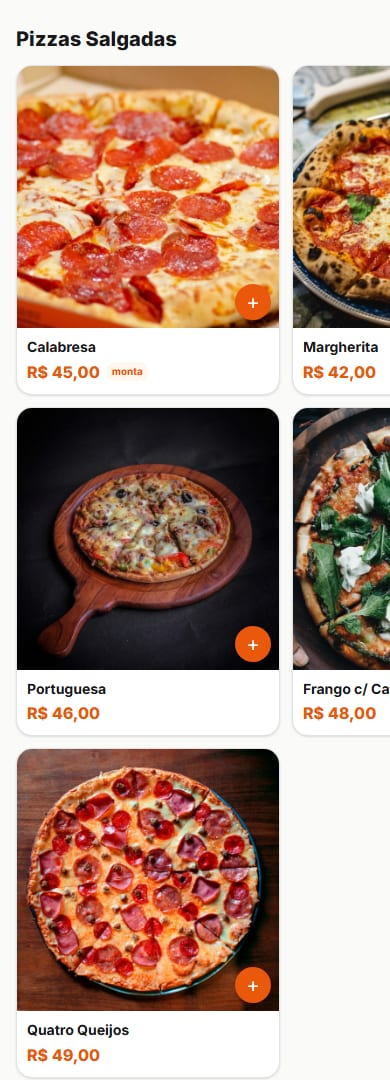
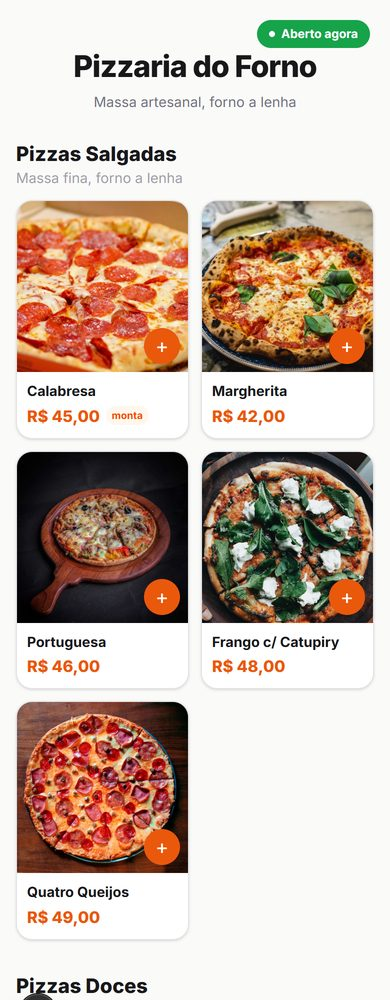
site: separa Bar de Hamburgueria, LPs honestas por feature, cardápios reais dos 5 nichos e correções da auditoria
- Bar & Hamburgueria viram nichos separados (regras opostas: bar=couvert/dose sem fidelidade; hamburgueria=combos/delivery/fidelidade sem couvert)
- Segmentadas agora são FEATURE-AWARE (segments.ts): painéis "Como funciona" e "Tudo incluso" só mostram o que o nicho realmente tem — bar deixa de prometer delivery/fidelidade (λ.prova-na-fonte)
- 5 cardápios reais no modelo Medellín (header + subtítulo de categoria + fotos): hamburgueria (demo Burger House novo), pizzaria e sushi nivelados; sushi com horário/fotos corrigidos
- Modal de captura com bullets neutros-honestos (sem "delivery" que destoava no bar) + valores do BILLING
- Copy: tira jargão "grátis-até-N", "iFood 30%" → "até ~30%", "sem fidelidade" → "sem contrato de permanência", fidelidade citada em pizzaria/sushi (recurso real), tom "tu" nas seoDescriptions
- FAQ home: impressora (instalador 1 clique), suporte (WhatsApp direto), maquininha (só registra o método) — lacunas do estudo
- Cards de segmento centralizados (5 cards)

diff --git a/src/app/segmentos/[nicho]/page.tsx b/src/app/segmentos/[nicho]/page.tsx
@@ -1,9 +1,10 @@
 import type { Metadata } from "next";
 import { notFound } from "next/navigation";
 import Link from "next/link";
-import { IconArrowRight, IconMoto, IconTable, IconWallet } from "@/components/Icons";
+import { IconArrowRight, IconMoto, IconTable, IconWallet, IconReceipt, IconBag } from "@/components/Icons";
 import { NICHOS, getNicho, type Nicho } from "@/config/marketing";
-import { ACCENT, CREAM, INK, MUT, PANEL_COLORS, SiteGlows, SiteNav, PhoneFrame, ColorPanel, Pill, PrecoSection, FaqSection, CtaFinal, SiteFooter, JsonLd } from "@/components/site/parts";
+import { SEGMENTOS, type Features } from "@/config/segments";
+import { ACCENT, CREAM, INK, MUT, PANEL_COLORS, SiteGlows, SiteNav, PhoneFrame, ColorPanel, ScreenMock, Pill, PrecoSection, FaqSection, CtaFinal, SiteFooter, JsonLd } from "@/components/site/parts";
 import { Reveal } from "@/components/site/Reveal";
 import CadastroModal from "@/components/site/CadastroModal";
 
@@ -23,16 +24,34 @@ export async function generateMetadata({ params }: { params: Promise<{ nicho: st
   };
 }
 
-const INCLUSO = [
-  "Cardápio digital + delivery próprio",
-  "Comanda, mesa e app do garçom",
-  "Cozinha (KDS) e impressão térmica",
-  "Balcão / PDV e caixa unificado",
-  "Estoque com baixa automática",
-  "Fidelidade por pontos",
-];
+// "Tudo incluso" HONESTO por nicho — só lista o que as features do segmento realmente têm (segments.ts).
+function buildIncluso(f: Features): string[] {
+  const list = ["Cardápio digital no seu link"];
+  if (f.hasDelivery) list.push("Delivery próprio sem comissão");
+  if (f.hasTables) list.push("Comanda, mesa e app do garçom");
+  if (f.coverEnabled || f.stockDose) list.push("Couvert e dose/garrafa no controle");
+  if (f.sellsByWeight) list.push("Venda por peso (R$/kg)");
+  list.push("Cozinha (KDS) e impressão térmica 80mm");
+  list.push("Balcão / PDV e caixa unificado");
+  list.push("Estoque com baixa automática");
+  if (f.loyaltyEnabled) list.push("Fidelidade por pontos");
+  return list;
+}
+
+// Painéis "Como funciona" HONESTOS por nicho — cada painel só aparece se a feature existe.
+type PanelDef = { eyebrow: string; EyeIcon: React.ComponentType<{ width?: number; height?: number }>; title: string; accent: string; desc: string; pills: string[]; img?: string; imgAlt?: string; mock?: React.ReactNode };
+function buildPanels(f: Features): PanelDef[] {
+  const p: PanelDef[] = [];
+  if (f.hasDelivery) p.push({ eyebrow: "Delivery próprio", EyeIcon: IconMoto, title: "Todo pedido cai no seu balcão.", accent: "Zero comissão.", desc: "Entrega pelo seu link, com sua taxa por bairro. O cliente escolhe Pix, cartão ou dinheiro com troco e acompanha por código de rastreio. Entrou pedido, o sistema apita e imprime sozinho.", pills: ["0% de comissão", "Taxa por bairro", "Rastreio por código", "Apita e imprime"], img: "/site/tela-pedidos.jpg", imgAlt: "Painel de pedidos de delivery no ComandaPRO" });
+  if (f.hasTables) p.push({ eyebrow: "Comanda & mesa", EyeIcon: IconTable, title: "Cada mesa com a conta certa,", accent: "na hora.", desc: f.hasStations ? "Comanda por mesa, o garçom lança pelo celular e cada item vai roteado pra cozinha ou pro bar. A conta divide sem erro na hora de fechar." : "Comanda por mesa, o garçom lança pelo celular e a conta divide sem erro na hora de fechar.", pills: ["Comanda por mesa", "App do garçom", "Divisão de conta"], img: "/site/tela-mesas.jpg", imgAlt: "Mapa de mesas com comandas abertas no ComandaPRO" });
+  if (f.coverEnabled || f.stockDose) p.push({ eyebrow: "Couvert & dose", EyeIcon: IconReceipt, title: "Couvert e dose entram", accent: "sem furo no controle.", desc: "O couvert entra por pessoa quando tem atração e a dose ou a garrafa baixa certo do estoque — sem confundir dose com garrafa. A taxa de serviço fecha na conta.", pills: ["Couvert por pessoa", "Dose e garrafa", "Taxa de serviço 10%"], mock: <ScreenMock title="Comanda · Mesa 06" rows={[{ label: "Couvert · 2 pessoas", value: "R$ 20,00" }, { label: "Chopp 300ml · 3", value: "R$ 36,00" }, { label: "Dose de gin", value: "R$ 18,00", on: true }]} footer={{ label: "Taxa de serviço 10%", value: "R$ 7,40" }} /> });
+  if (f.sellsByWeight) p.push({ eyebrow: "Venda por peso", EyeIcon: IconBag, title: "Vende por peso", accent: "sem erro de conta.", desc: "Preço por quilo: o sistema lê a balança (protocolo Toledo, via QZ Tray) ou você digita as gramas, e o total sai certo. Ideal pra açaí no copo, marmita e self-service.", pills: ["Preço por kg", "Lê da balança", "ou digita as gramas"], mock: <ScreenMock title="Balcão · por peso" rows={[{ label: "Açaí · R$ 49,90/kg" }, { label: "Peso", value: "320 g" }, { label: "Total", value: "R$ 15,97", on: true }]} /> });
+  p.push({ eyebrow: "Caixa & gestão", EyeIcon: IconWallet, title: "Você fecha o dia com número na mão,", accent: "não no achismo.", desc: `Toda venda — ${f.hasDelivery ? "balcão, mesa e delivery" : "balcão e mesa"} — cai no mesmo caixa. Você vê a receita por forma de pagamento, o que saiu do estoque e o lucro do período.`, pills: ["Caixa unificado", "Receita por forma de pagamento", "Baixa de estoque + CMV"], img: "/site/tela-financeiro.jpg", imgAlt: "Painel financeiro do ComandaPRO" });
+  return p;
+}
 
 function SegmentLP({ nicho: n }: { nicho: Nicho }) {
+  const feat = SEGMENTOS[n.businessType].features;
   return (
     <main className="relative min-h-screen overflow-hidden" style={{ background: CREAM, color: INK }}>
       <SiteGlows />
@@ -87,36 +106,18 @@ function SegmentLP({ nicho: n }: { nicho: Nicho }) {
         <p className="mt-8 text-center text-lg font-semibold text-[#5A4F45]">O ComandaPRO resolve as três — <span style={{ color: ACCENT }}>num sistema só.</span></p>
       </section>
 
-      {/* FUNCIONALIDADES — painéis coloridos (estilo Expresso), com print real */}
+      {/* FUNCIONALIDADES — painéis coloridos HONESTOS por nicho (só o que a feature existe) */}
       <section id="funcionalidades" className="relative z-10 mx-auto max-w-6xl space-y-8 px-5 py-16">
         <div className="mx-auto max-w-2xl text-center">
           <span className="text-sm font-bold uppercase tracking-wider" style={{ color: ACCENT }}>Como funciona</span>
           <h2 className="mt-3 text-3xl font-extrabold tracking-tight sm:text-4xl" style={{ color: INK }}>Do pedido ao caixa, sem trocar de sistema</h2>
         </div>
-        <ColorPanel
-          color={PANEL_COLORS[0]} eyebrow="01 · Delivery próprio" EyeIcon={IconMoto}
-          title="Todo pedido cai no seu balcão." accent="Zero comissão."
-          desc="Entrega pelo seu link, com sua taxa por bairro. O cliente escolhe Pix, cartão ou dinheiro com troco e acompanha por código de rastreio. Entrou pedido, o sistema apita e imprime sozinho."
-          pills={["0% de comissão", "Taxa por bairro", "Rastreio por código", "Apita e imprime"]}
-          img="/site/tela-pedidos.jpg" imgAlt="Painel de pedidos de delivery no ComandaPRO"
-        />
-        <ColorPanel
-          color={PANEL_COLORS[1]} eyebrow="02 · Comanda & mesa" EyeIcon={IconTable} reverse
-          title="Cada mesa com a conta certa," accent="na hora."
-          desc="Comanda por mesa, o garçom lança pelo celular e cada item vai roteado pra cozinha ou pro bar. A conta divide sem erro na hora de fechar."
-          pills={["Comanda por mesa", "App do garçom", "Divisão de conta"]}
-          img="/site/tela-mesas.jpg" imgAlt="Mapa de mesas com comandas abertas no ComandaPRO"
-        />
-        <ColorPanel
-          color={PANEL_COLORS[2]} eyebrow="03 · Caixa & gestão" EyeIcon={IconWallet}
-          title="Você fecha o dia com número na mão," accent="não no achismo."
-          desc="Toda venda — mesa, balcão e delivery — cai no mesmo caixa. Você vê a receita por forma de pagamento, o que saiu do estoque e o lucro do período."
-          pills={["Caixa unificado", "Receita por forma de pagamento", "Baixa de estoque + CMV"]}
-          img="/site/tela-financeiro.jpg" imgAlt="Painel financeiro do ComandaPRO"
-        />
+        {buildPanels(feat).map((p, i) => (
+          <ColorPanel key={p.eyebrow} {...p} eyebrow={`${String(i + 1).padStart(2, "0")} · ${p.eyebrow}`} color={PANEL_COLORS[i % PANEL_COLORS.length]} reverse={i % 2 === 1} />
+        ))}
       </section>
 
-      <Reveal><PrecoSection incluso={INCLUSO} /></Reveal>
+      <Reveal><PrecoSection incluso={buildIncluso(feat)} /></Reveal>
       <Reveal><FaqSection faqs={n.faqs} /></Reveal>
       <Reveal><CtaFinal heading={`Bota sua ${n.nome.toLowerCase()} num sistema só.`} /></Reveal>
       <SiteFooter />

diff --git a/src/config/marketing.ts b/src/config/marketing.ts
@@ -35,16 +35,16 @@ export const NICHOS: Nicho[] = [
     nome: "Açaiteria",
     seoTitle: "Sistema para Açaiteria — Cardápio Digital, Balança e Delivery | ComandaPRO",
     seoDescription:
-      "Sistema para açaiteria: monta o copo no cardápio digital, vende por peso na balança, delivery próprio sem comissão, comanda e caixa num sistema só. Teste o ComandaPRO.",
+      "Sistema para açaiteria: monta o copo no cardápio digital, vende por peso na balança, delivery próprio sem comissão, comanda e caixa num sistema só. Testa o ComandaPRO.",
     heroH1: "Sistema pra açaiteria que",
     heroAccent: "monta o copo sozinho.",
-    heroSub: "O cliente monta o açaí no seu link — tamanho, adicionais grátis-até-N, sabor — e o preço nunca sai errado. Venda por peso, delivery próprio sem comissão e fidelidade por pontos, num sistema só.",
+    heroSub: "O cliente monta o açaí no seu link — tamanho, adicionais (os primeiros grátis), sabor — e o preço nunca sai errado. Venda por peso, delivery próprio sem comissão e fidelidade por pontos, num sistema só.",
     cardapioImg: "/site/cardapio-acai.jpg",
     cardapioCaption: "Cardápio real · Cantinho do Açaí",
-    destaques: ["Monta o copo no cardápio", "Venda por peso na balança", "Adicional grátis-até-N", "Delivery 0% comissão", "Fidelidade por pontos"],
+    destaques: ["Monta o copo no cardápio", "Venda por peso na balança", "Adicionais grátis até o limite", "Delivery 0% comissão", "Fidelidade por pontos"],
     dores: ["Fila no balcão anotando adicional no papel", "Cliente do iFood que nunca volta — e a comissão comendo a margem", "Não sabe qual sabor e adicional mais saem"],
     faqs: [
-      { q: "O cliente monta o açaí sozinho pelo link?", a: "Sim. Ele escolhe o tamanho, adiciona frutas, cremes e crocantes com a regra 'os N primeiros grátis' já aplicada, e vê o preço subir ao vivo — sem app pra baixar." },
+      { q: "O cliente monta o açaí sozinho pelo link?", a: "Sim. Ele escolhe o tamanho, adiciona frutas, cremes e crocantes com a regra 'os primeiros grátis' (você define quantos) já aplicada, e vê o preço subir ao vivo — sem app pra baixar." },
       { q: "Dá pra vender por peso (R$/kg)?", a: "Sim. O ComandaPRO integra com a balança (protocolo Toledo) ou você digita as gramas, e o preço sai pelo peso automaticamente." },
       { q: "Como funciona a fidelidade da açaiteria?", a: "O cliente ganha pontos por compra e troca por um item seu (ex: copo 350ml grátis). Ele consulta o saldo pelo telefone e o cupom imprime quanto falta pro próximo prêmio. Pontos nunca viram dinheiro." },
       { q: "Preciso pagar comissão no delivery?", a: "Não. O pedido vem pelo seu link, com sua taxa por bairro, e o valor é todo seu — sem marketplace levando percentual." },
@@ -52,25 +52,50 @@ export const NICHOS: Nicho[] = [
     ],
   },
   {
-    // Engloba hamburgueria (comida casual + mesa + petisco + delivery) pra não pulverizar em LPs demais.
+    // BAR & PETISCARIA — venue de noite: comanda de mesa, couvert, dose/garrafa. NÃO tem fidelidade
+    // nem lidera com delivery (o forte é o salão). Regras vêm de segments.ts (coverEnabled, stockDose).
     slug: "bar",
     businessType: "bar",
-    nome: "Bar, Petiscaria & Hamburgueria",
-    seoTitle: "Sistema para Bar, Petiscaria e Hamburgueria — Comanda, Mesa e Delivery | ComandaPRO",
+    nome: "Bar & Petiscaria",
+    seoTitle: "Sistema para Bar e Petiscaria — Comanda por Mesa, Couvert e Dose | ComandaPRO",
     seoDescription:
-      "Sistema para bar, petiscaria e hamburgueria: comanda por mesa, controle de garçom, couvert e dose, delivery próprio sem comissão, impressão na cozinha e caixa. Conheça o ComandaPRO.",
+      "Sistema para bar e petiscaria: comanda por mesa, controle de garçom, couvert por pessoa, dose e garrafa no estoque, divisão de conta e caixa. Testa o ComandaPRO.",
     heroH1: "Sistema pra bar que",
     heroAccent: "fecha a comanda sem erro.",
-    heroSub: "Comanda por mesa, o garçom lança pelo celular, couvert e dose entram automático e a conta divide na hora. Petisco e hambúrguer no delivery próprio, sem comissão — do primeiro chopp ao fechamento do caixa.",
+    heroSub: "Comanda por mesa, o garçom lança pelo celular, couvert e dose entram automático e a conta divide na hora — do primeiro chopp ao fechamento do caixa. Cada pedido vai roteado pra cozinha ou pro bar.",
     cardapioImg: "/site/cardapio-bar.jpg",
     cardapioCaption: "Cardápio real · Medellín Music Bar",
-    destaques: ["Comanda por mesa", "App do garçom", "Couvert e dose automáticos", "Divisão de conta", "Delivery 0% comissão"],
+    destaques: ["Comanda por mesa", "App do garçom", "Couvert por pessoa", "Dose e garrafa no estoque", "Divisão de conta"],
     dores: ["Comanda de papel que some e some venda junto", "Garçom correndo pra somar a conta e o cliente esperando", "Dose e couvert que ninguém lança direito"],
     faqs: [
       { q: "Como funciona a comanda por mesa?", a: "Cada mesa tem uma comanda; o garçom lança os itens pelo celular e cada pedido já sai roteado pra cozinha ou pro bar. No fim, a conta fecha com a taxa de 10% (o cliente pode recusar) e divide entre as pessoas." },
       { q: "O sistema controla couvert e dose?", a: "Sim. O couvert entra por pessoa quando tem atração, e a dose/garrafa baixa certo do estoque — sem confundir dose com garrafa." },
-      { q: "Dá pra fazer delivery de petisco e hambúrguer?", a: "Sim. Além da mesa, você recebe pedido de entrega pelo seu link, com taxa por bairro e 0% de comissão de marketplace." },
       { q: "O garçom consegue ver o meu financeiro?", a: "Não. O garçom só lança e vê os pedidos dele; abrir comanda e lançar sim, fechar conta e ver dinheiro não — isso é do dono e da recepção." },
+      { q: "Dá pra rotear pedido pra cozinha e pro bar separados?", a: "Sim. Cada item vai pra estação certa: o chopp e o drink caem no bar, o petisco na cozinha — cada um imprime na sua impressora, sem preço na via de preparo." },
+      { q: "Quanto custa?", a: `A partir de R$ ${BILLING.planos.anual.equivMes}/mês no anual, com ${BILLING.trialDias} dias grátis e sem taxa de setup.` },
+    ],
+  },
+  {
+    // HAMBURGUERIA — comida casual: combos/adicionais, balcão+mesa+delivery próprio, FIDELIDADE pra
+    // trazer o cliente de volta. NÃO tem couvert nem dose. Oposto do bar (por isso LP separada).
+    slug: "hamburgueria",
+    businessType: "hamburgueria",
+    nome: "Hamburgueria",
+    seoTitle: "Sistema para Hamburgueria — Cardápio, Combos, Delivery e Fidelidade | ComandaPRO",
+    seoDescription:
+      "Sistema para hamburgueria: cardápio digital com combos e adicionais, balcão, mesa e delivery próprio sem comissão, fidelidade por pontos, impressão na cozinha e caixa. Testa o ComandaPRO.",
+    heroH1: "Sistema pra hamburgueria que",
+    heroAccent: "não erra o adicional.",
+    heroSub: "O cliente monta o combo e escolhe os adicionais no seu link, sem confusão. Balcão, mesa e delivery próprio sem comissão, com fidelidade por pontos pra ele voltar — do pedido ao caixa, num sistema só.",
+    cardapioImg: "/site/cardapio-hamburgueria.jpg",
+    cardapioCaption: "Cardápio real · smash e combos",
+    destaques: ["Combos e adicionais", "Balcão, mesa e delivery", "Delivery 0% comissão", "Fidelidade por pontos", "Impressão na cozinha"],
+    dores: ["Adicional anotado errado e lanche saindo trocado", "Marketplace levando até ~30% de cada lanche que você faz", "Cliente que pede uma vez e nunca mais volta"],
+    faqs: [
+      { q: "O cliente monta o combo e os adicionais sozinho?", a: "Sim. No seu link ele escolhe o lanche, os adicionais (bacon, cheddar, ponto da carne) com mínimo e máximo por grupo, e vê o preço certo — sem app pra baixar e sem erro de anotação." },
+      { q: "Tem fidelidade pra trazer o cliente de volta?", a: "Sim. O cliente ganha pontos por compra e troca por um item seu (ex: um combo ou uma porção). Ele vê o saldo pelo telefone e o cupom imprime quanto falta pro prêmio. Pontos nunca viram dinheiro." },
+      { q: "Preciso pagar comissão no delivery?", a: "Não. O pedido vem pelo seu link, com sua taxa por bairro e 0% de comissão — o valor é todo seu, sem marketplace no meio." },
+      { q: "Atende balcão, mesa e delivery no mesmo sistema?", a: "Sim. Walk-in no balcão, comanda na mesa e pedido de entrega caem no mesmo caixa e no mesmo estoque — você não troca de sistema no meio do serviço." },
       { q: "Quanto custa?", a: `A partir de R$ ${BILLING.planos.anual.equivMes}/mês no anual, com ${BILLING.trialDias} dias grátis e sem taxa de setup.` },
     ],
   },
@@ -80,19 +105,20 @@ export const NICHOS: Nicho[] = [
     nome: "Pizzaria",
     seoTitle: "Sistema para Pizzaria Delivery — Meio a Meio e Cardápio Digital | ComandaPRO",
     seoDescription:
-      "Sistema para pizzaria: pizza meio a meio no cardápio digital, delivery próprio sem comissão, comanda, impressão na cozinha e caixa. Conheça o ComandaPRO.",
+      "Sistema para pizzaria: pizza meio a meio no cardápio digital, delivery próprio sem comissão, comanda, impressão na cozinha e caixa. Testa o ComandaPRO.",
     heroH1: "Sistema pra pizzaria com",
     heroAccent: "meio a meio de verdade.",
     heroSub: "Pizza meio a meio no cardápio — cobra o sabor mais caro ou a média, do seu jeito — combos e bordas no seu link. Delivery próprio sem comissão, impressão na cozinha e caixa integrado.",
     cardapioImg: "/site/cardapio-pizzaria.jpg",
     cardapioCaption: "Cardápio real · pizza meio a meio",
-    destaques: ["Pizza meio a meio", "Combos e bordas", "Delivery 0% comissão", "Impressão na cozinha", "Caixa integrado"],
-    dores: ["Pedido de meio a meio anotado errado no WhatsApp", "iFood levando 30% da pizza que você fez", "Cozinha fazendo a pizza errada por comanda ilegível"],
+    destaques: ["Pizza meio a meio", "Combos e bordas", "Delivery 0% comissão", "Impressão na cozinha", "Fidelidade por pontos"],
+    dores: ["Pedido de meio a meio anotado errado no WhatsApp", "Marketplace levando até ~30% da pizza que você fez", "Cozinha fazendo a pizza errada por comanda ilegível"],
     faqs: [
       { q: "O cardápio faz pizza meio a meio?", a: "Sim. O cliente escolhe dois sabores e o sistema cobra pela regra que você definir — o sabor mais caro ou a média dos dois. Também dá pra montar combos e escolher borda." },
       { q: "A cozinha recebe o pedido certo?", a: "Sim. A via de preparo imprime na cozinha sem preço, só com os sabores e observações — impressão térmica 80mm, roteada pra estação certa." },
       { q: "Preciso pagar comissão no delivery?", a: "Não. O pedido vem pelo seu link com sua taxa por bairro; o valor é todo seu, sem marketplace no meio." },
       { q: "Dá pra atender no salão e no delivery no mesmo sistema?", a: "Sim. Comanda de mesa, balcão e delivery caem no mesmo caixa — você não troca de sistema no meio do serviço." },
+      { q: "Tem fidelidade pra trazer o cliente de volta?", a: "Sim. O cliente ganha pontos por compra e troca por um item seu (ex: uma pizza ou uma bebida). Ele vê o saldo pelo telefone e o cupom imprime quanto falta pro prêmio. Pontos nunca viram dinheiro." },
       { q: "Quanto custa?", a: `A partir de R$ ${BILLING.planos.anual.equivMes}/mês no anual, com ${BILLING.trialDias} dias grátis e sem taxa de setup.` },
     ],
   },
@@ -102,19 +128,20 @@ export const NICHOS: Nicho[] = [
     nome: "Sushi & Japonês",
     seoTitle: "Sistema para Sushi e Restaurante Japonês — Combos, Mesa e Delivery | ComandaPRO",
     seoDescription:
-      "Sistema para sushi e restaurante japonês: cardápio digital com combos e rodízio, comanda de mesa, delivery próprio sem comissão, cozinha e caixa. Conheça o ComandaPRO.",
+      "Sistema para sushi e restaurante japonês: cardápio digital com combos e rodízio, comanda de mesa, delivery próprio sem comissão, cozinha e caixa. Testa o ComandaPRO.",
     heroH1: "Sistema pra sushi com",
     heroAccent: "combos e rodízio.",
     heroSub: "Combos, barcas e rodízio no cardápio do seu link, comanda por mesa e delivery próprio sem comissão. Do pedido ao caixa, num sistema só — sem gambiarra de planilha.",
     cardapioImg: "/site/cardapio-sushi.jpg",
     cardapioCaption: "Cardápio real · combos e barcas",
-    destaques: ["Combos e barcas", "Rodízio", "Comanda por mesa", "Delivery 0% comissão", "Caixa integrado"],
+    destaques: ["Combos e barcas", "Rodízio", "Comanda por mesa", "Delivery 0% comissão", "Fidelidade por pontos"],
     dores: ["Barca e combo montados na mão, com erro de preço", "Comissão de marketplace comendo a margem do peixe", "Rodízio sem controle do que sai por mesa"],
     faqs: [
       { q: "O cardápio monta combo e barca?", a: "Sim. Você cria combos com itens obrigatórios e opcionais (mínimo e máximo por grupo), e o cliente monta a barca no seu link com o preço certo calculado pelo sistema." },
       { q: "Funciona pra rodízio?", a: "Sim. Cada mesa abre comanda, os pedidos vão roteados pra cozinha, e você controla o que sai por mesa sem perder o fio." },
       { q: "Preciso pagar comissão no delivery?", a: "Não. O pedido vem pelo seu link, com sua taxa por bairro e 0% de comissão de marketplace." },
       { q: "Atende salão e delivery no mesmo sistema?", a: "Sim. Comanda de mesa, balcão e delivery caem no mesmo caixa e no mesmo estoque — tudo integrado." },
+      { q: "Tem fidelidade pra trazer o cliente de volta?", a: "Sim. O cliente ganha pontos por compra e troca por um item seu (ex: um temaki ou uma bebida). Ele vê o saldo pelo telefone e o cupom imprime quanto falta pro prêmio. Pontos nunca viram dinheiro." },
       { q: "Quanto custa?", a: `A partir de R$ ${BILLING.planos.anual.equivMes}/mês no anual, com ${BILLING.trialDias} dias grátis e sem taxa de setup.` },
     ],
   },

diff --git a/src/components/site/parts.tsx b/src/components/site/parts.tsx
@@ -118,6 +118,35 @@ function PanelWatermark() {
   );
 }
 
+// Mock de tela claro (card branco) pra painéis sem screenshot real (couvert/dose, venda por peso).
+type Row = { label: string; value?: string; on?: boolean };
+export function ScreenMock({ title, badge, rows, footer }: { title: string; badge?: string; rows: Row[]; footer?: { label: string; value: string } }) {
+  return (
+    <div className="site-lift w-full max-w-sm rounded-[22px] border border-black/[0.06] bg-white p-2.5" style={{ boxShadow: `0 26px 70px -24px ${ACCENT}30, 0 10px 30px rgba(80,40,20,.14)` }}>
+      <div className="rounded-[15px] bg-[#FBF7F1] p-4">
+        <div className="mb-3 flex items-center justify-between">
+          <span className="text-sm font-bold" style={{ color: INK }}>{title}</span>
+          {badge && <span className="rounded-full bg-black/[0.05] px-2.5 py-1 text-[11px] font-semibold text-[#6B5D52]">{badge}</span>}
+        </div>
+        <div className="space-y-1.5">
+          {rows.map((r, i) => (
+            <div key={i} className="flex items-center justify-between rounded-lg bg-white px-3 py-2 shadow-sm">
+              <span className="text-[13px] font-semibold" style={{ color: r.on ? ACCENT : INK }}>{r.label}</span>
+              {r.value && <span className="text-[13px] font-bold tabular-nums" style={{ color: r.on ? ACCENT : "#6B5D52" }}>{r.value}</span>}
+            </div>
+          ))}
+        </div>
+        {footer && (
+          <div className="mt-3 flex items-center justify-between rounded-lg bg-white px-3 py-2.5 shadow-sm">
+            <span className="text-[12px] font-semibold text-[#6B5D52]">{footer.label}</span>
+            <span className="text-sm font-extrabold tabular-nums" style={{ color: INK }}>{footer.value}</span>
+          </div>
+        )}
+      </div>
+    </div>
+  );
+}
+
 // PAINEL COLORIDO de funcionalidade (estilo Expresso): cor cheia + marca d'água + texto branco com
 // palavra-destaque amarela + pills contornadas + card branco de UI real ao lado. Igual ao site-mãe.
 export function ColorPanel({ color, eyebrow, EyeIcon, title, accent, desc, pills, img, imgAlt, mock, reverse }: {
@@ -163,7 +192,7 @@ export function PrecoSection({ incluso }: { incluso: string[] }) {
       <div className="mx-auto max-w-2xl text-center">
         <span className="text-sm font-bold uppercase tracking-wider" style={{ color: ACCENT }}>Preço</span>
         <h2 className="mt-3 text-3xl font-extrabold tracking-tight sm:text-4xl" style={{ color: INK }}>Um plano. Tudo incluso.</h2>
-        <p className="mt-4 text-lg text-[#6B5D52]">Sem taxa de setup, sem comissão por pedido, sem fidelidade.</p>
+        <p className="mt-4 text-lg text-[#6B5D52]">Sem taxa de setup, sem comissão por pedido, sem contrato de permanência.</p>
       </div>
       <div className="mx-auto mt-12 max-w-md rounded-3xl border border-black/[0.06] bg-white p-8 text-center shadow-sm" style={{ boxShadow: `0 30px 80px -30px ${ACCENT}55` }}>
         <div className="text-sm font-semibold text-[#6B5D52]">a partir de</div>

diff --git a/src/app/page.tsx b/src/app/page.tsx
@@ -27,8 +27,10 @@ const FAQS: { q: string; a: string }[] = [
   { q: "Preciso pagar comissão por pedido?", a: "Não. Você paga só a mensalidade. O pedido chega pelo seu link e o valor da venda é todo seu — sem o marketplace levando percentual." },
   { q: "Meu cliente precisa baixar aplicativo?", a: "Não. Ele faz o pedido pelo link do seu cardápio, direto no navegador do celular, sem instalar nada." },
   { q: "Serve pro meu tipo de negócio?", a: "Sim. Açaiteria, bar, petiscaria, hamburgueria, pizzaria, sushi e mais — cada negócio liga só as funcionalidades que usa." },
-  { q: "Funciona com impressora térmica?", a: "Sim. Impressão térmica 80mm, roteando a via da cozinha e do balcão para a impressora certa de cada estação." },
+  { q: "Preciso de impressora? Qual serve?", a: "Serve qualquer impressora térmica 80mm (não precisa ser fiscal). Tem um instalador de 1 clique que configura tudo, e a via da cozinha e a do balcão vão roteadas pra impressora certa de cada estação." },
   { q: "Consigo vender por peso, tipo açaí e marmita?", a: "Sim. O ComandaPRO trabalha com venda por peso (R$/kg) integrando a balança ou digitando as gramas." },
+  { q: "Como funciona a maquininha de cartão?", a: "O sistema registra a forma de pagamento (Pix, cartão ou dinheiro com troco) em cada venda, pro seu caixa fechar certo. A maquininha continua sendo a sua, à parte — o ComandaPRO não processa o cartão nem cobra taxa sobre a venda." },
+  { q: "Tem suporte se eu precisar?", a: "Tem. Suporte humano direto no WhatsApp — você fala com a gente, não com robô." },
   { q: "Quanto custa?", a: `A partir de R$ ${BILLING.planos.anual.equivMes}/mês no plano anual (R$ ${BILLING.planos.mensal.equivMes}/mês no mensal), com ${BILLING.trialDias} dias grátis e sem taxa de setup.` },
   { q: "Preciso de vários sistemas diferentes?", a: "Não. Cardápio, comanda, mesa, cozinha, delivery, caixa e estoque estão num sistema só, e todos conversam entre si." },
 ];
@@ -107,7 +109,8 @@ function MesasMockup() {
 // ── Seção SEGMENTOS: cards de acesso às segmentadas (destaque no topo). Foto de comida + nicho.
 const SEG_IMG: Record<string, { img: string; tag: string }> = {
   acaiteria: { img: "/site/food-acai.jpg", tag: "Monta no copo · venda por peso" },
-  bar: { img: "/site/food-burger.jpg", tag: "Comanda por mesa · couvert e dose" },
+  bar: { img: "/site/food-bar.jpg", tag: "Comanda por mesa · couvert e dose" },
+  hamburgueria: { img: "/site/food-burger.jpg", tag: "Combos e adicionais · delivery e fidelidade" },
   pizzaria: { img: "/site/food-pizza.jpg", tag: "Meio a meio · combos e bordas" },
   sushi: { img: "/site/food-sushi.jpg", tag: "Combos · barcas · rodízio" },
 };
@@ -119,11 +122,11 @@ function SegmentosSection() {
         <h2 className="mt-3 text-3xl font-extrabold tracking-tight sm:text-4xl" style={{ color: INK }}>Escolha o seu segmento</h2>
         <p className="mt-4 text-lg text-[#6B5D52]">Cada tipo de food service já vem com o cardápio e as regras certas.</p>
       </div>
-      <div className="mt-10 grid gap-5 sm:grid-cols-2 lg:grid-cols-4">
+      <div className="mt-10 flex flex-wrap justify-center gap-5">
         {NICHOS.map((n) => {
           const s = SEG_IMG[n.slug];
           return (
-            <Link key={n.slug} href={`/segmentos/${n.slug}`} className="site-lift group overflow-hidden rounded-3xl border border-black/[0.06] bg-white shadow-sm">
+            <Link key={n.slug} href={`/segmentos/${n.slug}`} className="site-lift group w-full overflow-hidden rounded-3xl border border-black/[0.06] bg-white shadow-sm sm:w-[calc(50%-0.625rem)] lg:w-[260px]">
               <div className="h-40 w-full overflow-hidden">
                 {/* eslint-disable-next-line @next/next/no-img-element */}
                 <img src={s?.img} alt={n.nome} className="h-full w-full object-cover transition duration-500 group-hover:scale-105" />
@@ -144,7 +147,7 @@ function SegmentosSection() {
 // ── Seção DOR: dor antes da solução (método Expresso). Cada dor é respondida por uma
 // funcionalidade mais abaixo na página. Tom de dono, direto.
 const DORES = [
-  { Icon: IconCard, t: "O iFood leva quase 30% de cada pedido", d: "Você trabalha, o cliente paga — e o app fica com o pedaço que era seu lucro." },
+  { Icon: IconCard, t: "O marketplace leva até ~30% de cada pedido", d: "Você trabalha, o cliente paga — e o app fica com o pedaço que era seu lucro." },
   { Icon: IconReceipt, t: "Pedido no caderno e no WhatsApp", d: "Comanda perdida, item esquecido, cozinha fazendo o que não foi pedido. No corre, o erro sai caro." },
   { Icon: IconBox, t: "Um sistema pro delivery, outro pra mesa, outro pro caixa", d: "Nenhum conversa com o outro. Você digita a mesma coisa três vezes e ainda dá diferença." },
   { Icon: IconChart, t: "Fim da noite e você não sabe o resultado", d: "Quanto vendeu, quanto sobrou no caixa, o que saiu do estoque. Decisão no achismo." },
@@ -400,7 +403,7 @@ function FidelidadeSection() {
         accent="motivo pra voltar."
         desc="O cliente ganha pontos por compra e troca por um item seu — nunca por dinheiro nem desconto. Ele consulta o saldo pelo telefone, vê quanto falta pro prêmio, e o próprio cupom imprime 'faltam X pontos pro açaí grátis'. Você define as regras: pontos por real ou fixos por compra, valor mínimo, dia turbo e validade."
         pills={["Pontos por compra", "Resgate por item", "Meus pontos por telefone", "Dia turbo (2×)", "Nunca vira dinheiro"]}
-        mock={<ScreenMock title="Meus pontos" badge="cliente" rows={[{ label: "Seu saldo", value: "120 pts", on: true }, { label: "Copo 350ml grátis", value: "100 pts" }, { label: "Cerveja grátis", value: "180 pts" }]} footer={{ label: "Falta pro próximo prêmio", value: "60 pts" }} />}
+        mock={<ScreenMock title="Meus pontos" badge="cliente" rows={[{ label: "Seu saldo", value: "120 pts", on: true }, { label: "Copo 350ml grátis", value: "100 pts" }, { label: "Combo grátis", value: "180 pts" }]} footer={{ label: "Falta pro próximo prêmio", value: "60 pts" }} />}
       />
     </section>
   );
@@ -413,7 +416,7 @@ function PrecoSection() {
       <div className="mx-auto max-w-2xl text-center">
         <span className="text-sm font-bold uppercase tracking-wider" style={{ color: ACCENT }}>Preço</span>
         <h2 className="mt-3 text-3xl font-extrabold tracking-tight sm:text-4xl">Um plano. Tudo incluso.</h2>
-        <p className="mt-4 text-lg text-[#6B5D52]">Sem taxa de setup, sem comissão por pedido, sem fidelidade.</p>
+        <p className="mt-4 text-lg text-[#6B5D52]">Sem taxa de setup, sem comissão por pedido, sem contrato de permanência.</p>
       </div>
       <div className="mx-auto mt-12 max-w-md rounded-3xl border border-black/[0.06] bg-white shadow-sm p-8 text-center" style={{ boxShadow: `0 30px 80px -30px ${ACCENT}55` }}>
         <div className="text-sm font-semibold text-[#6B5D52]">a partir de</div>

diff --git a/src/components/site/CadastroModal.tsx b/src/components/site/CadastroModal.tsx
@@ -6,6 +6,7 @@
 import { useEffect, useRef, useState } from "react";
 import { useRouter } from "next/navigation";
 import { IconArrowRight, IconCheck } from "@/components/Icons";
+import { BILLING } from "@/config/billing";
 
 const ACCENT = "#6366F1";
 const INK = "#241C17";
@@ -90,7 +91,7 @@ export default function CadastroModal() {
             <h2 className="mt-3 text-3xl font-extrabold leading-[1.1] tracking-tight">Crie seu cardápio grátis em 2 minutos</h2>
             <p className="mt-3 text-white/85">Sem instalar nada. Sem cartão pra testar. Pronto pra receber pedido hoje.</p>
             <ul className="mt-6 space-y-3 text-[15px] font-semibold">
-              {["Cardápio digital + link de delivery", "0% de comissão por pedido", "14 dias grátis, cancela quando quiser"].map((b) => (
+              {["Cardápio digital no seu link", "Sem comissão de marketplace", `${BILLING.trialDias} dias grátis, cancela quando quiser`].map((b) => (
                 <li key={b} className="flex items-center gap-2.5"><span className="text-[#FFD84D]"><IconCheck width={18} height={18} /></span> {b}</li>
               ))}
             </ul>
@@ -122,7 +123,7 @@ export default function CadastroModal() {
               style={{ background: ACCENT, boxShadow: `0 12px 34px ${ACCENT}55` }}>
               Criar meu cardápio grátis <IconArrowRight width={18} height={18} />
             </button>
-            <div className="mt-3 text-center text-xs text-[#8A7B6E]">14 dias grátis · sem cartão · leva 2 minutos</div>
+            <div className="mt-3 text-center text-xs text-[#8A7B6E]">{BILLING.trialDias} dias grátis · sem cartão · leva 2 minutos</div>
           </div>
         </div>
       </div>